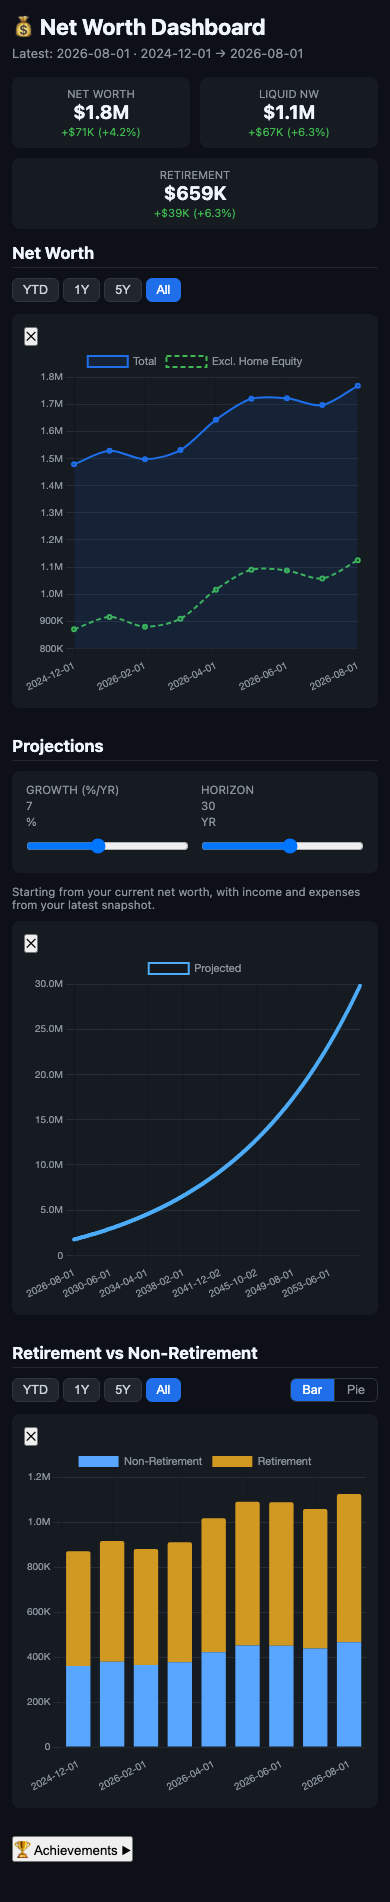
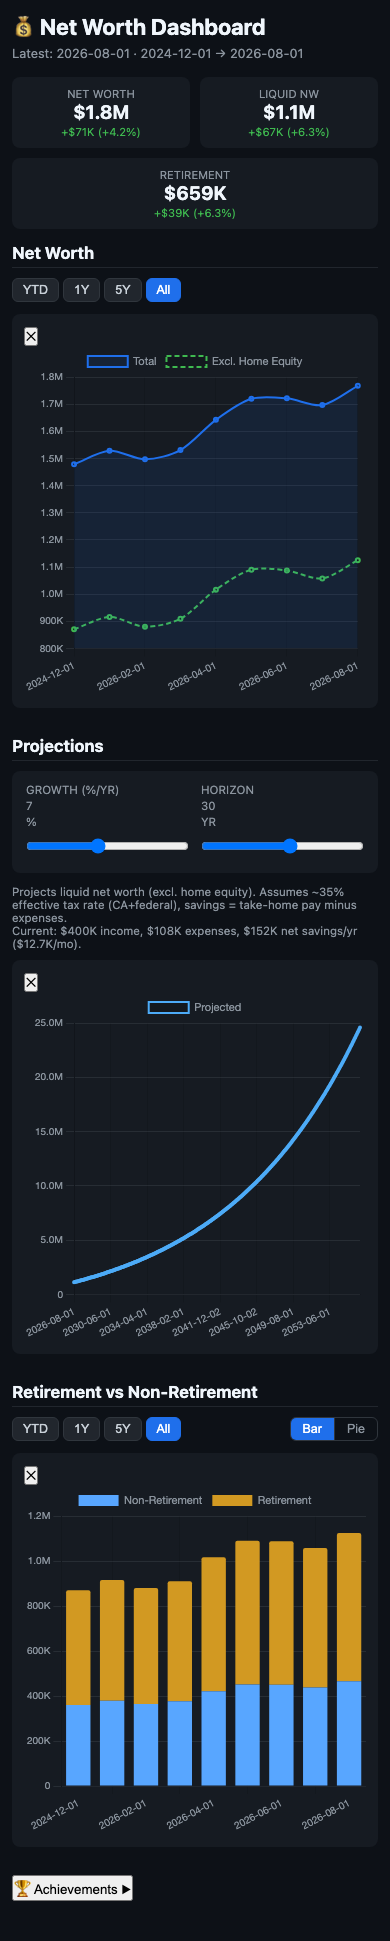
fix: projections based on liquid NW only (excl. home), add assumptions explainer (35% tax rate, savings breakdown)

diff --git a/docs/index.html b/docs/index.html
@@ -150,7 +150,8 @@
       <label>Horizon <span id="projHorizonVal">30</span>yr <input type="range" id="projHorizon" min="5" max="50" step="5" value="30" oninput="document.getElementById('projHorizonVal').textContent=this.value;recalcProjections()"></label>
     </div>
     <div style="font-size:0.72rem;color:#8b949e;margin-bottom:10px;">
-      Starting from your current net worth, with income and expenses from your latest snapshot.
+      Projects liquid net worth (excl. home equity). Assumes ~35% effective tax rate (CA+federal), savings = take-home pay minus expenses.<br>
+      Current: $400K income, $108K expenses, $152K net savings/yr ($12.7K/mo).
     </div>
     <div class="chart-wrapper"><button class="tt-dismiss" id="ttDismissProj" onclick="dismissTooltip('projections')" title="Dismiss tooltip">✕</button><canvas id="chartProjections"></canvas></div>
   </div>
@@ -176,7 +177,7 @@
 </div>
 
 <script>
[2 lines of base64/hex data omitted]
 Chart.register(ChartDataLabels);
 
 function sha256(str) {
@@ -373,13 +374,13 @@ let projCache = null;
 function calcProjections(expenses, income, growthPct, horizonYears) {
   const s = DATA.series;
   const lastIdx = s.dates.length - 1;
-  const totalNW = s.net_worth_total[lastIdx];
+  const liquidNW = s.net_worth_ex_housing[lastIdx];
   const horizonMonths = horizonYears * 12;
   const r = growthPct / 100, monthlyR = r / 12;
-  // Tax-adjusted: assume ~35% effective CA+federal rate
+  // Tax-adjusted: ~35% effective CA+federal, savings = take-home minus expenses
   const netSavings = Math.max(0, (income * 0.65 - expenses) / 12);
   const median = [];
-  let nw = totalNW;
+  let nw = liquidNW;
   for (let m = 0; m <= horizonMonths; m++) { median.push(Math.round(nw)); nw = nw * (1 + monthlyR) + netSavings; }
   const lastDate = new Date(s.dates[lastIdx]);
   const projDates = [];

diff --git a/templates/index.html b/templates/index.html
@@ -150,7 +150,8 @@
       <label>Horizon <span id="projHorizonVal">30</span>yr <input type="range" id="projHorizon" min="5" max="50" step="5" value="30" oninput="document.getElementById('projHorizonVal').textContent=this.value;recalcProjections()"></label>
     </div>
     <div style="font-size:0.72rem;color:#8b949e;margin-bottom:10px;">
-      Starting from your current net worth, with income and expenses from your latest snapshot.
+      Projects liquid net worth (excl. home equity). Assumes ~35% effective tax rate (CA+federal), savings = take-home pay minus expenses.<br>
+      Current: $400K income, $108K expenses, $152K net savings/yr ($12.7K/mo).
     </div>
     <div class="chart-wrapper"><button class="tt-dismiss" id="ttDismissProj" onclick="dismissTooltip('projections')" title="Dismiss tooltip">✕</button><canvas id="chartProjections"></canvas></div>
   </div>
@@ -373,13 +374,13 @@ let projCache = null;
 function calcProjections(expenses, income, growthPct, horizonYears) {
   const s = DATA.series;
   const lastIdx = s.dates.length - 1;
-  const totalNW = s.net_worth_total[lastIdx];
+  const liquidNW = s.net_worth_ex_housing[lastIdx];
   const horizonMonths = horizonYears * 12;
   const r = growthPct / 100, monthlyR = r / 12;
-  // Tax-adjusted: assume ~35% effective CA+federal rate
+  // Tax-adjusted: ~35% effective CA+federal, savings = take-home minus expenses
   const netSavings = Math.max(0, (income * 0.65 - expenses) / 12);
   const median = [];
-  let nw = totalNW;
+  let nw = liquidNW;
   for (let m = 0; m <= horizonMonths; m++) { median.push(Math.round(nw)); nw = nw * (1 + monthlyR) + netSavings; }
   const lastDate = new Date(s.dates[lastIdx]);
   const projDates = [];
